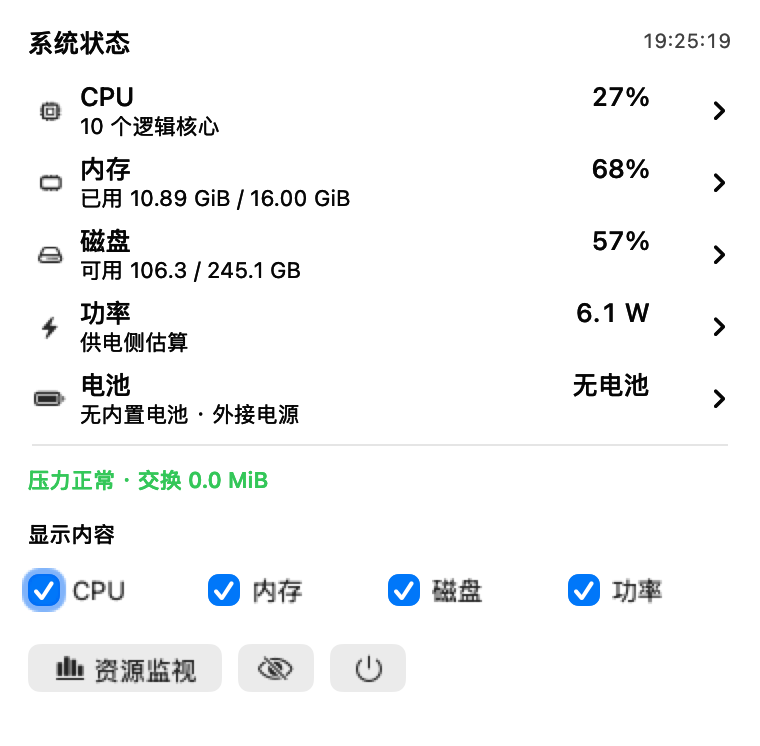
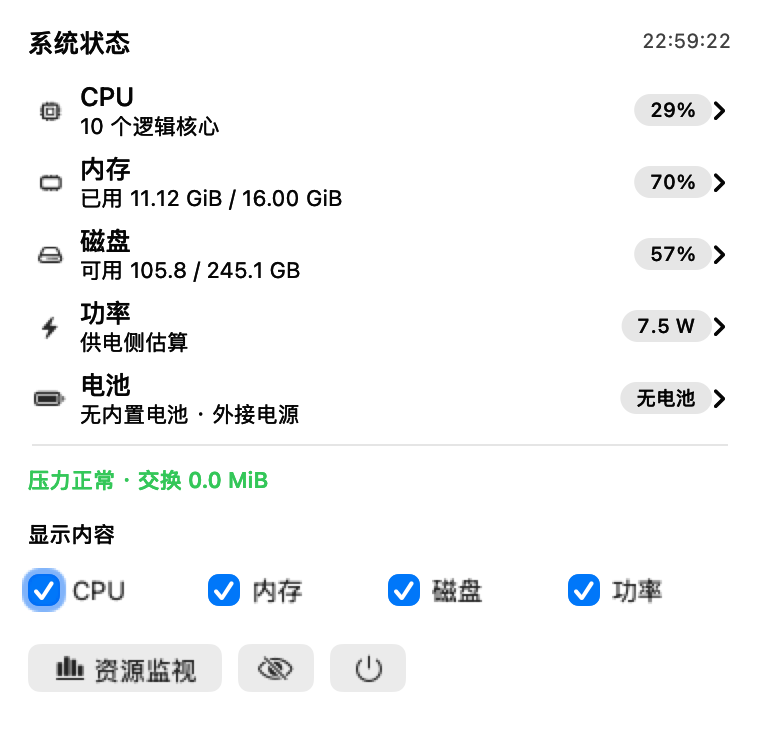
Round metric bars and center native menu values for v3.4.1

diff --git a/ResourceDetailsView.swift b/ResourceDetailsView.swift
@@ -21,21 +21,40 @@ struct PowerScale {
     }
 }
 
-final class MetricBar: NSLevelIndicator {
+final class MetricBar: NSView {
+    private(set) var isEnabled = false
+    private(set) var doubleValue = 0.0
+    private(set) var maxValue = 100.0
+    private var fillColor: NSColor
     init(color: NSColor) {
+        fillColor = color
         super.init(frame: .zero)
-        levelIndicatorStyle = .continuousCapacity; isEditable = false; drawsTieredCapacityLevels = false
-        fillColor = color; warningFillColor = color; criticalFillColor = color
+        setAccessibilityElement(true)
+        setAccessibilityRole(.progressIndicator)
         update(nil)
     }
     required init?(coder: NSCoder) { fatalError() }
+    override func draw(_ dirtyRect: NSRect) {
+        let track = bounds
+        guard track.width > 0, track.height > 0 else { return }
+        NSColor.labelColor.withAlphaComponent(0.12).setFill()
+        NSBezierPath(roundedRect: track, xRadius: track.height / 2, yRadius: track.height / 2).fill()
+        guard isEnabled, maxValue > 0, doubleValue > 0 else { return }
+        let width = track.width * min(1, max(0, doubleValue / maxValue))
+        let fill = NSRect(x: track.minX, y: track.minY, width: width, height: track.height)
+        let radius = min(fill.width, fill.height) / 2
+        fillColor.setFill()
+        NSBezierPath(roundedRect: fill, xRadius: radius, yRadius: radius).fill()
+    }
     func update(_ reading: Double?, maximum: Double = 100, color: NSColor? = nil, description: String = "暂无数据") {
         maxValue = maximum.isFinite && maximum > 0 ? maximum : 100
-        minValue = 0; warningValue = maxValue; criticalValue = maxValue
-        if let color { fillColor = color; warningFillColor = color; criticalFillColor = color }
+        if let color { fillColor = color }
         let valid = reading.flatMap { $0.isFinite && $0 >= 0 ? $0 : nil }
         isEnabled = valid != nil; doubleValue = min(maxValue, valid ?? 0)
+        setAccessibilityEnabled(isEnabled)
         toolTip = description; setAccessibilityValue(description)
+        setAccessibilityMinValue(0); setAccessibilityMaxValue(maxValue)
+        needsDisplay = true
     }
 }
 

diff --git a/StatusMenuView.swift b/StatusMenuView.swift
@@ -99,12 +99,11 @@ final class StatusMenuController {
                 value = details?.battery.map { MenuBarText.percent($0.percent) } ?? (details == nil ? "--" : "无电池")
                 detail = details == nil ? "正在读取电池信息" : (details?.battery?.stateLabel ?? "无内置电池 · 外接电源")
             }
-            let paragraph = NSMutableParagraphStyle()
-            paragraph.tabStops = [NSTextTab(textAlignment: .right, location: 285)]
             // Render both lines together: AppKit can drop a separate subtitle when an attributed title changes during tracking.
-            let title = NSMutableAttributedString(string: kind.title + "\t" + value + "\n", attributes: [.font: NSFont.monospacedDigitSystemFont(ofSize: 13, weight: .medium), .paragraphStyle: paragraph])
+            let title = NSMutableAttributedString(string: kind.title + "\n", attributes: [.font: NSFont.systemFont(ofSize: 13, weight: .medium)])
             title.append(NSAttributedString(string: detail, attributes: [.font: NSFont.systemFont(ofSize: 11)]))
             if items[kind]?.attributedTitle != title { items[kind]?.attributedTitle = title }
+            if items[kind]?.badge?.stringValue != value { items[kind]?.badge = NSMenuItemBadge(string: value) }
             items[kind]?.toolTip = detail
         }
     }

diff --git a/README.md b/README.md
@@ -2,13 +2,13 @@
 
 原生 macOS 资源监视、可选菜单栏监控与桌面小组件。查看各核心 CPU、进程内存、目录容量、电池与进程 CPU 能耗，并由用户选择退出进程。资源监视使用普通窗口，不会置顶。
 
-当前版本：**3.4.0**。安装后的应用和小组件名称均为 **“系统状态”**。
+当前版本：**3.4.1**。安装后的应用和小组件名称均为 **“系统状态”**。
 
 ## 下载安装
 
-**[下载安装包：MacPulse Widget 3.4.0（M 系列 Mac）](https://github.com/qwer8856/MACPulse-widget/releases/download/v3.4.0/MACPulse-Widget-v3.4.0-macOS-arm64.zip)**
+**[下载安装包：MacPulse Widget 3.4.1（M 系列 Mac）](https://github.com/qwer8856/MACPulse-widget/releases/download/v3.4.1/MACPulse-Widget-v3.4.1-macOS-arm64.zip)**
 
-[版本发布页与校验文件](https://github.com/qwer8856/MACPulse-widget/releases/tag/v3.4.0)
+[版本发布页与校验文件](https://github.com/qwer8856/MACPulse-widget/releases/tag/v3.4.1)
 
 需要 Apple Silicon Mac（M 系列）和 macOS 14 或更新版本。
 
@@ -34,7 +34,7 @@
 
 资源窗口不显示各核心 CPU 图表；核心数量与各核心占用保留在菜单栏的 CPU 子菜单中。窗口采用紧凑布局，支持调整大小。
 
-内存、磁盘、电池和功率在资源总览、对应详情页及菜单栏子菜单中使用进度条并保留数值。内存和磁盘表示已用比例，电池表示剩余电量。功率条以 W 为单位，从 0–20 W 起步，超过刻度时向上扩展，运行期间不随读数下降而缩小；刻度上限不是设备额定功率，也不代表“功率利用率”。无电池、等待采样或功率读数过期时显示灰色条及状态文字。
+内存、磁盘、电池和功率在资源总览、对应详情页及菜单栏子菜单中使用两端圆润的进度条并保留数值。内存和磁盘表示已用比例，电池表示剩余电量。功率条以 W 为单位，从 0–20 W 起步，超过刻度时向上扩展，运行期间不随读数下降而缩小；刻度上限不是设备额定功率，也不代表“功率利用率”。无电池、等待采样或功率读数过期时显示灰色条及状态文字。
 
 进程列表支持按名称或 PID 搜索，点击列标题可切换排序。系统可能限制部分进程的读取权限，底部显示可读取进程数量。
 
@@ -47,6 +47,8 @@
 菜单栏的 CPU、内存、磁盘、功率复选框支持**一次展开连续多选**，选择一项不会自动关闭菜单。全部取消时仅显示图标。展开期间固定顶部项目宽度，关闭菜单后应用新的显示组合；菜单中的采样数值继续更新。选择结果与窗口同步并保存。
 
 **主菜单每个指标右侧都有原生展开箭头**。选择 CPU、内存、磁盘、功率或电池，才展开对应子菜单；主菜单只保留概要，底部不再常驻显示 CPU 图表或电池详情。系统根据屏幕剩余空间决定子菜单展开方向。
+
+右侧数值使用原生徽标，与整行和展开箭头垂直居中；左侧保留标题和状态小字。深浅色、菜单高亮及实时刷新均由原生菜单呈现。
 
 | 子菜单 | 展开后显示 |
 | --- | --- |
